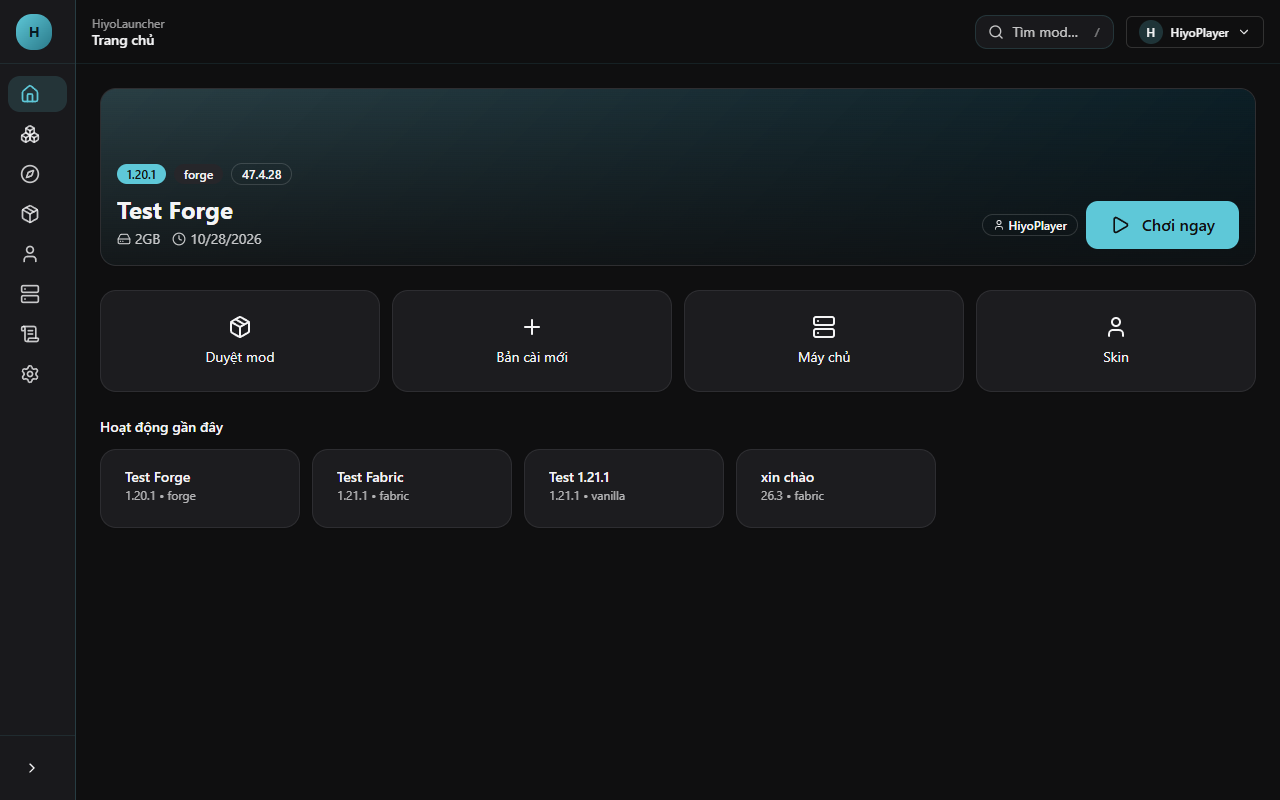
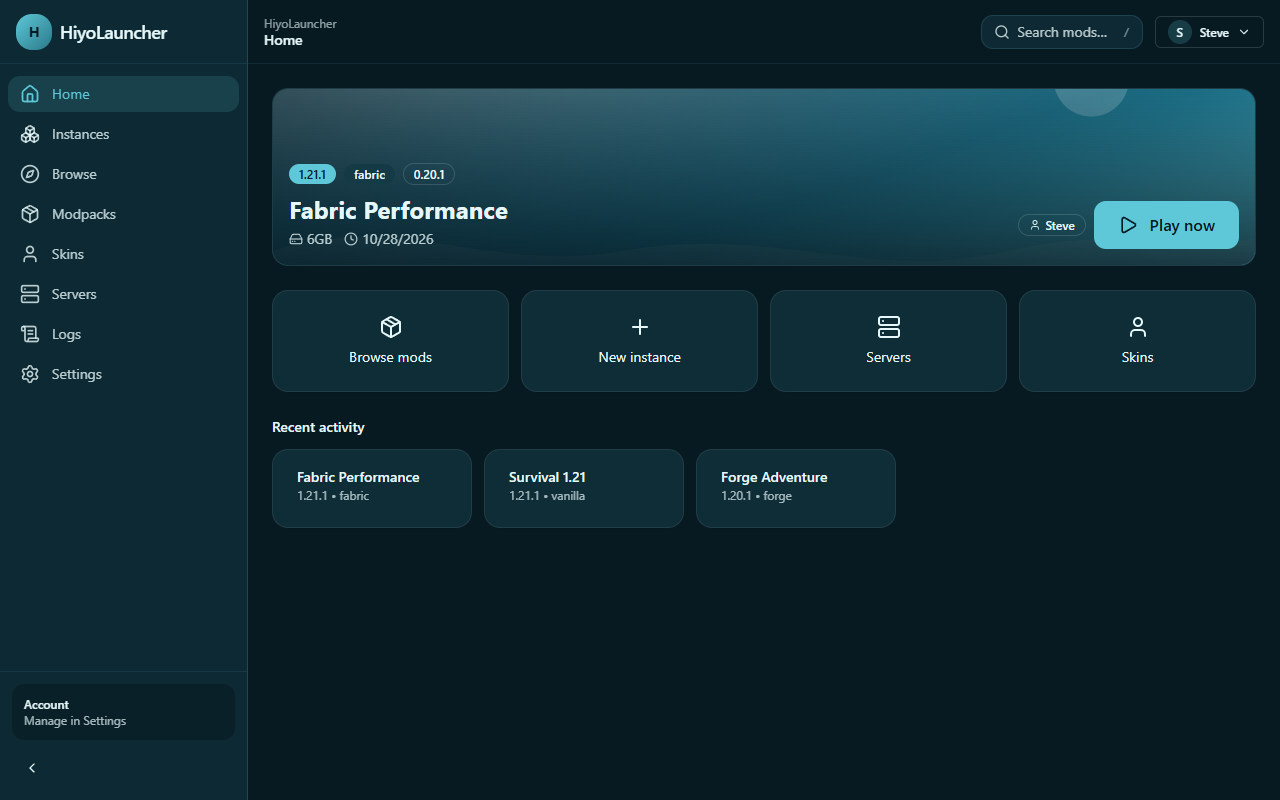
docs: clean English screenshots and Vietnamese README

diff --git a/src/renderer/src/i18n/vi.ts b/src/renderer/src/i18n/vi.ts
@@ -155,6 +155,13 @@ const vi = {
     loadMore: 'Tải thêm',
     downloads: 'lượt tải',
     versions: 'Phiên bản',
+    sort: {
+      relevance: 'Liên quan',
+      downloads: 'Lượt tải',
+      follows: 'Theo dõi',
+      newest: 'Mới nhất',
+      updated: 'Mới cập nhật',
+    },
     noVersions: 'Không có phiên bản phù hợp',
     empty: 'Không tìm thấy kết quả',
     error: 'Không tải được Modrinth. Kiểm tra kết nối mạng.',

diff --git a/src/renderer/src/components/content/ProjectCard.tsx b/src/renderer/src/components/content/ProjectCard.tsx
@@ -63,7 +63,7 @@ export function ProjectCard({ hit, installed = false, onClick, onInstall }: Proj
             ))}
           </div>
           <span className="shrink-0 text-xs text-muted-foreground">
-            {t('browse.downloads', { defaultValue: '{{count}} downloads', count: formatNumber(hit.downloads) })}
+            {formatNumber(hit.downloads)} {t('browse.downloads', { defaultValue: 'downloads' })}
           </span>
         </div>
 

diff --git a/src/renderer/src/i18n/en.ts b/src/renderer/src/i18n/en.ts
@@ -155,6 +155,13 @@ const en = {
     loadMore: 'Load more',
     downloads: 'downloads',
     versions: 'Versions',
+    sort: {
+      relevance: 'Relevance',
+      downloads: 'Downloads',
+      follows: 'Follows',
+      newest: 'Newest',
+      updated: 'Recently updated',
+    },
     noVersions: 'No compatible version',
     empty: 'No results',
     error: 'Could not reach Modrinth. Check your connection.',

diff --git a/README_vi.md b/README_vi.md
@@ -1,0 +1,148 @@
+# HiyoLauncher
+
+<p align="center">
+  <img src="README-banner.svg" alt="HiyoLauncher banner" width="100%" />
+</p>
+
+<p align="center">
+  <img src="src/renderer/src/assets/logo.svg" alt="HiyoLauncher logo" width="96" />
+</p>
+
+<p align="center">
+  <strong>Launcher Minecraft nhanh, đẹp, cá nhân hoá sâu và tích hợp sẵn Modrinth.</strong>
+</p>
+
+<p align="center">
+  <a href="README.md">English</a> · <a href="README_vi.md">Tiếng Việt</a>
+</p>
+
+<p align="center">
+  <a href="LICENSE"><img src="https://img.shields.io/badge/license-MIT-blue.svg" alt="Giấy phép: MIT" /></a>
+  <a href="https://github.com/hiyo412012/HiyoLauncher/actions/workflows/ci.yml"><img src="https://github.com/hiyo412012/HiyoLauncher/actions/workflows/ci.yml/badge.svg" alt="CI" /></a>
+  <a href="https://github.com/hiyo412012/HiyoLauncher/releases"><img src="https://img.shields.io/github/v/release/hiyo412012/HiyoLauncher?label=release" alt="Bản phát hành" /></a>
+</p>
+
+> **HiyoLauncher không liên kết với Mojang Studios, Microsoft hay Modrinth.** Minecraft là thương hiệu của Mojang Studios. Modrinth là thương hiệu của chủ sở hữu tương ứng.
+
+---
+
+## Tính năng
+
+| Nhóm | Những gì bạn có |
+|---|---|
+| Nhanh & ổn định | UI phản hồi tức thì, tải song song, kiểm tra SHA1, cài đặt atomic, retry có backoff, sửa chữa instance, chẩn đoán crash |
+| Nội dung Modrinth | Tìm & cài mod, modpack, shader, resource pack trực tiếp từ Modrinth, tự resolve dependency và cập nhật một click |
+| Mod loader | Fabric, Quilt, Forge và NeoForge, tự khớp với phiên bản Minecraft |
+| Tài khoản | Đăng nhập Microsoft bằng device code, và tài khoản offline cho server offline/LAN (có disclaimer) |
+| Cá nhân hoá | Theme mặc định Pastel Ocean, sáng/tối, accent tuỳ chỉnh, nền ảnh/video, mật độ, cỡ chữ, ngôn ngữ Việt/Anh, cover riêng từng instance |
+| Chẩn đoán crash | Nhận diện OutOfMemoryError, sai phiên bản Java, thiếu/trùng mod, lỗi GLFW/OpenGL và đưa gợi ý xử lý |
+| Discord Rich Presence | Tuỳ chọn hiển thị instance và phiên bản đang chơi |
+| Tự động cập nhật | Cập nhật trong app qua GitHub Releases |
+
+## Ảnh chụp màn hình
+
+| Trang chủ | Duyệt nội dung |
+|---|---|
+| ![Trang chủ](docs/screenshots/home.png) | ![Duyệt nội dung](docs/screenshots/browse.png) |
+
+| Bản cài | Modpack |
+|---|---|
+| ![Bản cài](docs/screenshots/instances.png) | ![Modpack](docs/screenshots/modpacks.png) |
+
+| Cài đặt | Máy chủ |
+|---|---|
+| ![Cài đặt](docs/screenshots/settings.png) | ![Máy chủ](docs/screenshots/servers.png) |
+
+> Ảnh chụp dùng theme mặc định **Pastel Ocean** và giao diện tiếng Anh. Theme, màu nhấn, mật độ và nền đều tuỳ chỉnh được.
+
+## Tải & cài đặt
+
+Tải bản mới nhất tại [trang Releases](https://github.com/hiyo412012/HiyoLauncher/releases).
+
+| Nền tảng | Định dạng |
+|---|---|
+| Windows (x64) | Bộ cài NSIS (`.exe`) |
+| macOS (x64 / arm64) | DMG (`.dmg`) — hiện chưa ký số |
+| Linux (x64) | AppImage (`.AppImage`) và gói Debian (`.deb`) |
+
+### Bắt đầu nhanh
+
+1. Tải và cài bản phù hợp với hệ điều hành.
+2. Mở HiyoLauncher, hoàn tất onboarding: chọn ngôn ngữ, thư mục game, theme và tạo bản cài đầu tiên.
+3. Chọn tài khoản (Microsoft hoặc offline) và bấm **Play**.
+
+### Cài đặt cho developer
+
+```bash
+git clone https://github.com/hiyo412012/HiyoLauncher.git
+cd HiyoLauncher
+npm install
+npm run dev        # chạy dev
+npm test           # chạy unit test
+npm run typecheck  # kiểm tra type
+npm run dist:win   # build bộ cài Windows
+```
+
+Các lệnh build khác: `npm run build`, `npm run dist`, `npm run dist:mac`, `npm run dist:linux`.
+
+### Build matrix (CI)
+
+| OS | Node | Các bước |
+|---|---|---|
+| ubuntu-latest | 24 | `npm ci` → `npm run typecheck` → `npm test` → `npm run build` |
+| windows-latest | 24 | `npm ci` → `npm run typecheck` → `npm test` → `npm run build` |
+| macos-latest | 24 | `npm ci` → `npm run typecheck` → `npm test` → `npm run build` |
+
+Bản release chạy thêm `npx electron-builder --publish always` cho Windows (NSIS), macOS (DMG, x64+arm64) và Linux (AppImage + deb).
+
+## Thiết lập đăng nhập Microsoft
+
+HiyoLauncher dùng **Microsoft device code flow** với **public client** (không có secret). Bạn cần một Azure app registration client ID:
+
+- Hướng dẫn từng bước: [`docs/microsoft-auth.md`](docs/microsoft-auth.md)
+- Dán client ID trong **Settings → Advanced → Microsoft client ID**, hoặc đặt biến môi trường `MS_CLIENT_ID`.
+
+Chế độ offline hoạt động mà không cần client ID.
+
+## Disclaimer chế độ offline
+
+Tài khoản offline chỉ dành cho **server offline và LAN**, và cho người đã sở hữu Minecraft. HiyoLauncher **không** phân phối tài nguyên game Minecraft và không vượt qua quyền sở hữu Minecraft cho server online. Xem [`docs/offline-mode.md`](docs/offline-mode.md).
+
+## Cấu trúc dự án
+
+```
+src/
+  shared/        # types, IPC contract, zod schemas, hằng số
+  main/          # Electron main process (Node): services + IPC
+  preload/       # contextBridge API có type
+  renderer/      # React app
+tests/           # unit/component test (Vitest)
+docs/            # tài liệu
+.github/         # CI workflows và templates
+```
+
+## Lộ trình
+
+Các mục dưới đây đã hoàn thành trong v1.0.0:
+
+- M1 Scaffold, IPC, settings, theme shell, onboarding
+- M2 Instance CRUD, cài vanilla, Java, launch, log streaming
+- M3 Auth: Microsoft + offline
+- M4 Mod loader: Fabric, Quilt, Forge, NeoForge
+- M5 Modrinth mods + quản lý nội dung
+- M6 Modpacks (`.mrpack`)
+- M7 Shader, resource pack, skin, server
+- M8 Chẩn đoán crash, Discord RPC, auto-updater
+- M9 Test, CI, docs, release (v1.0.0)
+
+## Đóng góp
+
+Xem [`CONTRIBUTING.md`](CONTRIBUTING.md). Vui lòng mở issue theo template và không commit secret.
+
+## Giấy phép
+
+[MIT](LICENSE) © 2026 HiyoLauncher contributors.
+
+---
+
+**[Read this in English →](README.md)**

diff --git a/README.md b/README.md
@@ -13,6 +13,10 @@
 </p>
 
 <p align="center">
+  <a href="README.md">English</a> · <a href="README_vi.md">Tiếng Việt</a>
+</p>
+
+<p align="center">
   <a href="LICENSE"><img src="https://img.shields.io/badge/license-MIT-blue.svg" alt="License: MIT" /></a>
   <a href="https://github.com/hiyo412012/HiyoLauncher/actions/workflows/ci.yml"><img src="https://github.com/hiyo412012/HiyoLauncher/actions/workflows/ci.yml/badge.svg" alt="CI" /></a>
   <a href="https://github.com/hiyo412012/HiyoLauncher/releases"><img src="https://img.shields.io/github/v/release/hiyo412012/HiyoLauncher?label=release" alt="Release" /></a>
@@ -45,11 +49,11 @@
 |---|---|
 | ![Instances](docs/screenshots/instances.png) | ![Modpacks](docs/screenshots/modpacks.png) |
 
-| Settings | Logs |
+| Settings | Servers |
 |---|---|
-| ![Settings](docs/screenshots/settings.png) | ![Logs](docs/screenshots/logs.png) |
+| ![Settings](docs/screenshots/settings.png) | ![Servers](docs/screenshots/servers.png) |
 
-> Screenshots use the default **Pastel Ocean** theme. Themes, accent colors, density and backgrounds are fully customizable.
+> Screenshots use the default **Pastel Ocean** theme and the English UI. Themes, accent colors, density and backgrounds are fully customizable.
 
 ## Download & install
 
@@ -96,7 +100,7 @@ Release builds additionally run `npx electron-builder --publish always` for Wind
 HiyoLauncher uses the **Microsoft device code flow** with a **public client** (no secret). You need an Azure app registration client ID:
 
 - Step-by-step guide: [`docs/microsoft-auth.md`](docs/microsoft-auth.md)
-- Paste your client ID in **Settings → Accounts → Microsoft client ID**, or set the `MS_CLIENT_ID` environment variable.
+- Paste your client ID in **Settings → Advanced → Microsoft client ID**, or set the `MS_CLIENT_ID` environment variable.
 
 Offline mode works without any client ID.
 
@@ -141,6 +145,4 @@ See [`CONTRIBUTING.md`](CONTRIBUTING.md). Please open issues using the provided 
 
 ---
 
-## Tóm tắt tiếng Việt
-
-HiyoLauncher là launcher Minecraft mã nguồn mở, đa nền tảng, tập trung vào trải nghiệm "mở là chơi": nhanh, ổn định, cá nhân hoá sâu, cài mod/modpack/shader/resource pack trực tiếp từ Modrinth, hỗ trợ tài khoản Microsoft (device code) và tài khoản offline (có disclaimer). Mặc định theme Pastel Ocean. Không liên kết với Mojang/Microsoft/Modrinth. Giấy phép MIT.
+**[Đọc bằng tiếng Việt →](README_vi.md)**
